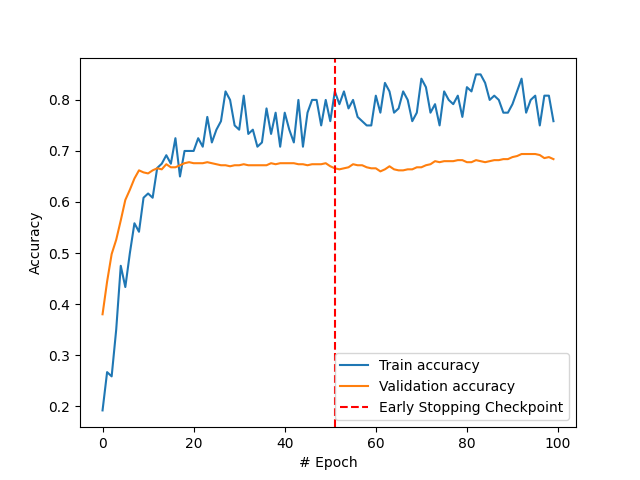
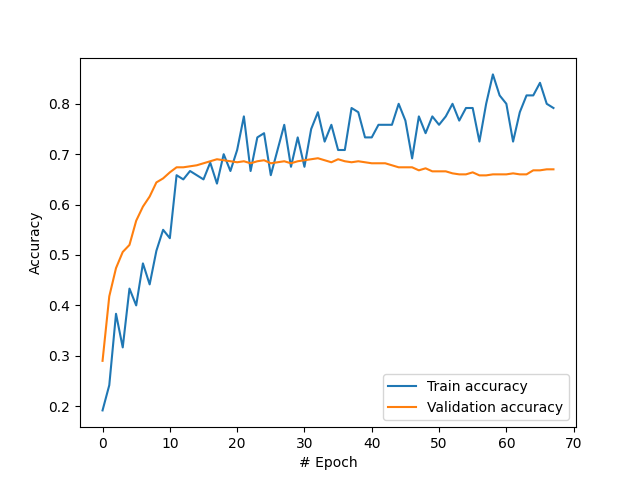
plots

diff --git a/train.py b/train.py
@@ -61,8 +61,9 @@ def train(model, optimizer, x, y, A, train_mask, val_mask, n_epochs, patience, p
 			bad_counter = 0
 		else:
 			bad_counter += 1
-		
+
 		if bad_counter == patience:
+			print(f'Early-stopping because val loss has not improved in {patience} epochs')
 			break
 
 	# Also save last model
@@ -108,7 +109,7 @@ def evaluate_test(x, y, test_mask, model):
 if __name__ == '__main__':
 	parser = argparse.ArgumentParser()
 	parser.add_argument('--dataset', default='Cora', choices=['Cora', 'CiteSeer', 'PubMed'])
-	parser.add_argument('--epochs', type=int, default=100, help='Number of epochs to train.')
+	parser.add_argument('--epochs', type=int, default=200, help='Number of epochs to train.')
 	parser.add_argument('--lr', type=float, default=0.005, help='Initial learning rate.')
 	parser.add_argument('--hidden', type=int, default=8, help='Number of hidden units.')
 	parser.add_argument('--heads', type=int, default=8, help='Number of head attentions.')
@@ -172,7 +173,7 @@ if __name__ == '__main__':
 
 	model.load_state_dict(torch.load(f'saved_models/last_model_{args.dataset}.pkl'))  # Restoring last model
 	test_loss, test_acc = evaluate_test(x, y, test_mask, model)
-	print(f'Last model (epoch {n_epochs}) | loss: {test_loss:.3f}, acc: {test_acc:.3f}')
+	print(f'Last model | loss: {test_loss:.3f}, acc: {test_acc:.3f}')
 
 	# with torch.no_grad():
 	# 	test_mask = data.test_mask.to(device)
